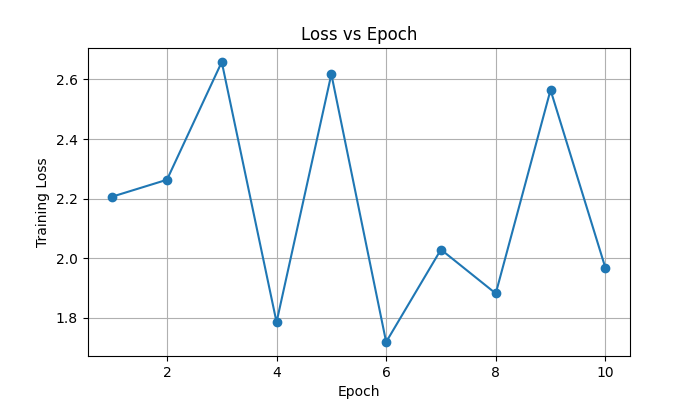
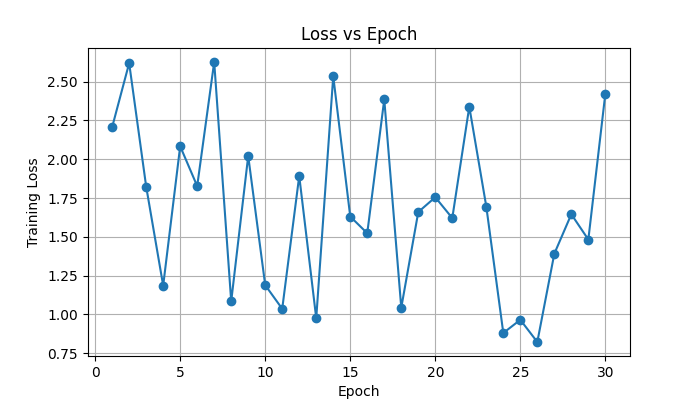
Improved trainer

diff --git a/src/trainer.py b/src/trainer.py
@@ -97,7 +97,7 @@ def StartReasoningTraining():
     training_args = TrainingArguments(
         output_dir="./lora-out",
         per_device_train_batch_size=1,
-        max_steps=10,
+        max_steps=30,
         learning_rate=2e-4,
         logging_steps=1,
         report_to=None,
@@ -125,9 +125,9 @@ def StartReasoningTraining():
     losses = [x["loss"] for x in log_history if "loss" in x]
     plt.figure(figsize=(7, 4))
     plt.plot(steps, losses, marker="o")
-    plt.xlabel("Epoch")
+    plt.xlabel("Steps")
     plt.ylabel("Training Loss")
-    plt.title("Loss vs Epoch")
+    plt.title("Training LoRA Adapter")
     plt.grid(True)
     plt.savefig("imgs/fine-tuning-training-loss.png")
     plt.show()

diff --git a/README.md b/README.md
@@ -31,34 +31,34 @@ Locally served customized LLM that would be capable of analysing HTTP request / 
 
 ## Training
 
-*Note: Training data has been omited from the repository.*
+*Note: Final Training data has been omited from the repository.*
 
-### 1. Phase:
-LoRA fine-tuning for improved analysis reasoning on request / response pair. To be performed via pre-defined high-quality `x` examples of what kind of analysis/reasoning should be performed.
+Training data has been prepared by manually crafting pairs of insecure HTTP responses (misconfigured HTTP headers) and their clones with properly configures headers.
 
-Data to be prepared in the format:
+Data has been prepared in following format:
 ```json
-[{"input": "Analyze this HTTP request/response: GET /admin ...", 
- "output": "User provided request for admin interface without cookies with valid response, indicating that application can be accesses unauthenticated. Additionally, response was missing HSTS security header."},...]
+  {
+    "prompt": "### Instruction:\n \n Evaluate HTTP response headers in a single paragraph and...\n \n <request>RAW Request</request>\n<response>RAW Response</response>",
+    "reasoning": "The HTTP response for **myawesome.shop** lacks several key ... ",
+    "classification": 1,
+    "gpt5_classification": 0, // used for benchmarking
+    "gpt5_classification_prompt_engineering": 1, // used for benchmarking
+  },
 ```
 
-*Note: following data were collected on smaller model ollama-3.1-1B, with small subset of data. To be updated...*
+*Note: Section to be added on syntetic data generation using larger models and multiple agents*
+
+### 1. Phase:
+LoRA fine-tuning for improved analysis reasoning on request / response pair. This was performed via pre-defined high-quality `x` examples of what kind of analysis/reasoning should be performed and what should be considered during evaluation.
+
+*Note: following training stats were collected on smaller model ollama-3.1-1B, with small subset of training data. This will be updated later...*
 Evolution of loss function during fine-tuning of LoRA adapter for analysing HTTP headers in relation to the content of the page:
 ![FineTuning-Training-Loss](imgs/fine-tuning-training-loss.png)
 
 ### 2. Phase:
-*Still in design progress...*
+*Still in design process...*
 
 Full MLP (Multi-layered perceptron) training for data classification performed on the output of the last hidden state. (probably mean of all outputs)
-
-Data to be prepared in the format:
-```json
-[{"input": "Analyze this HTTP request/response: GET /admin ... + <analysis from previous phase>", 
- "label": 0}]
-```
-
-*Note: following data are from smaller model ollama-3.1-1B*
-
 
 ## Evaluation
 
